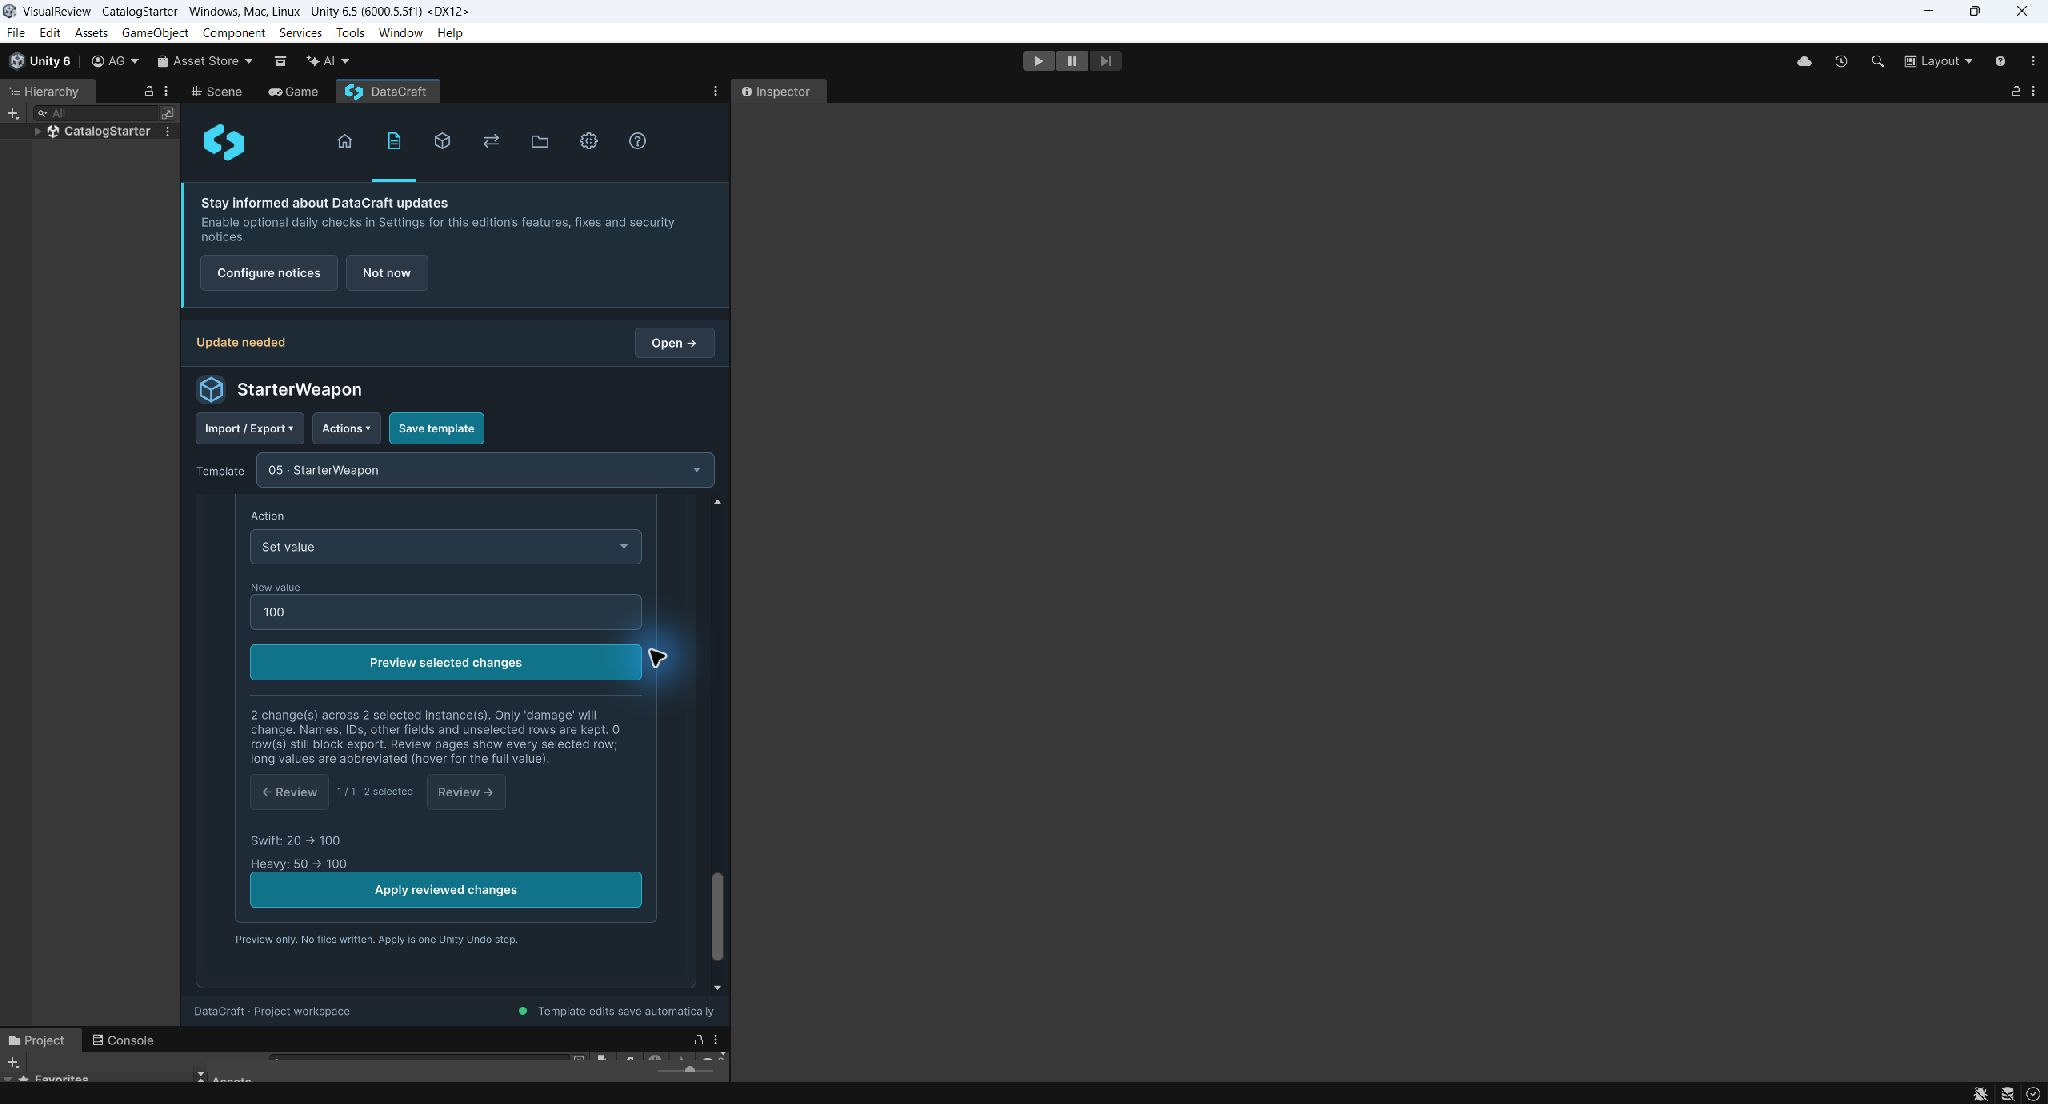
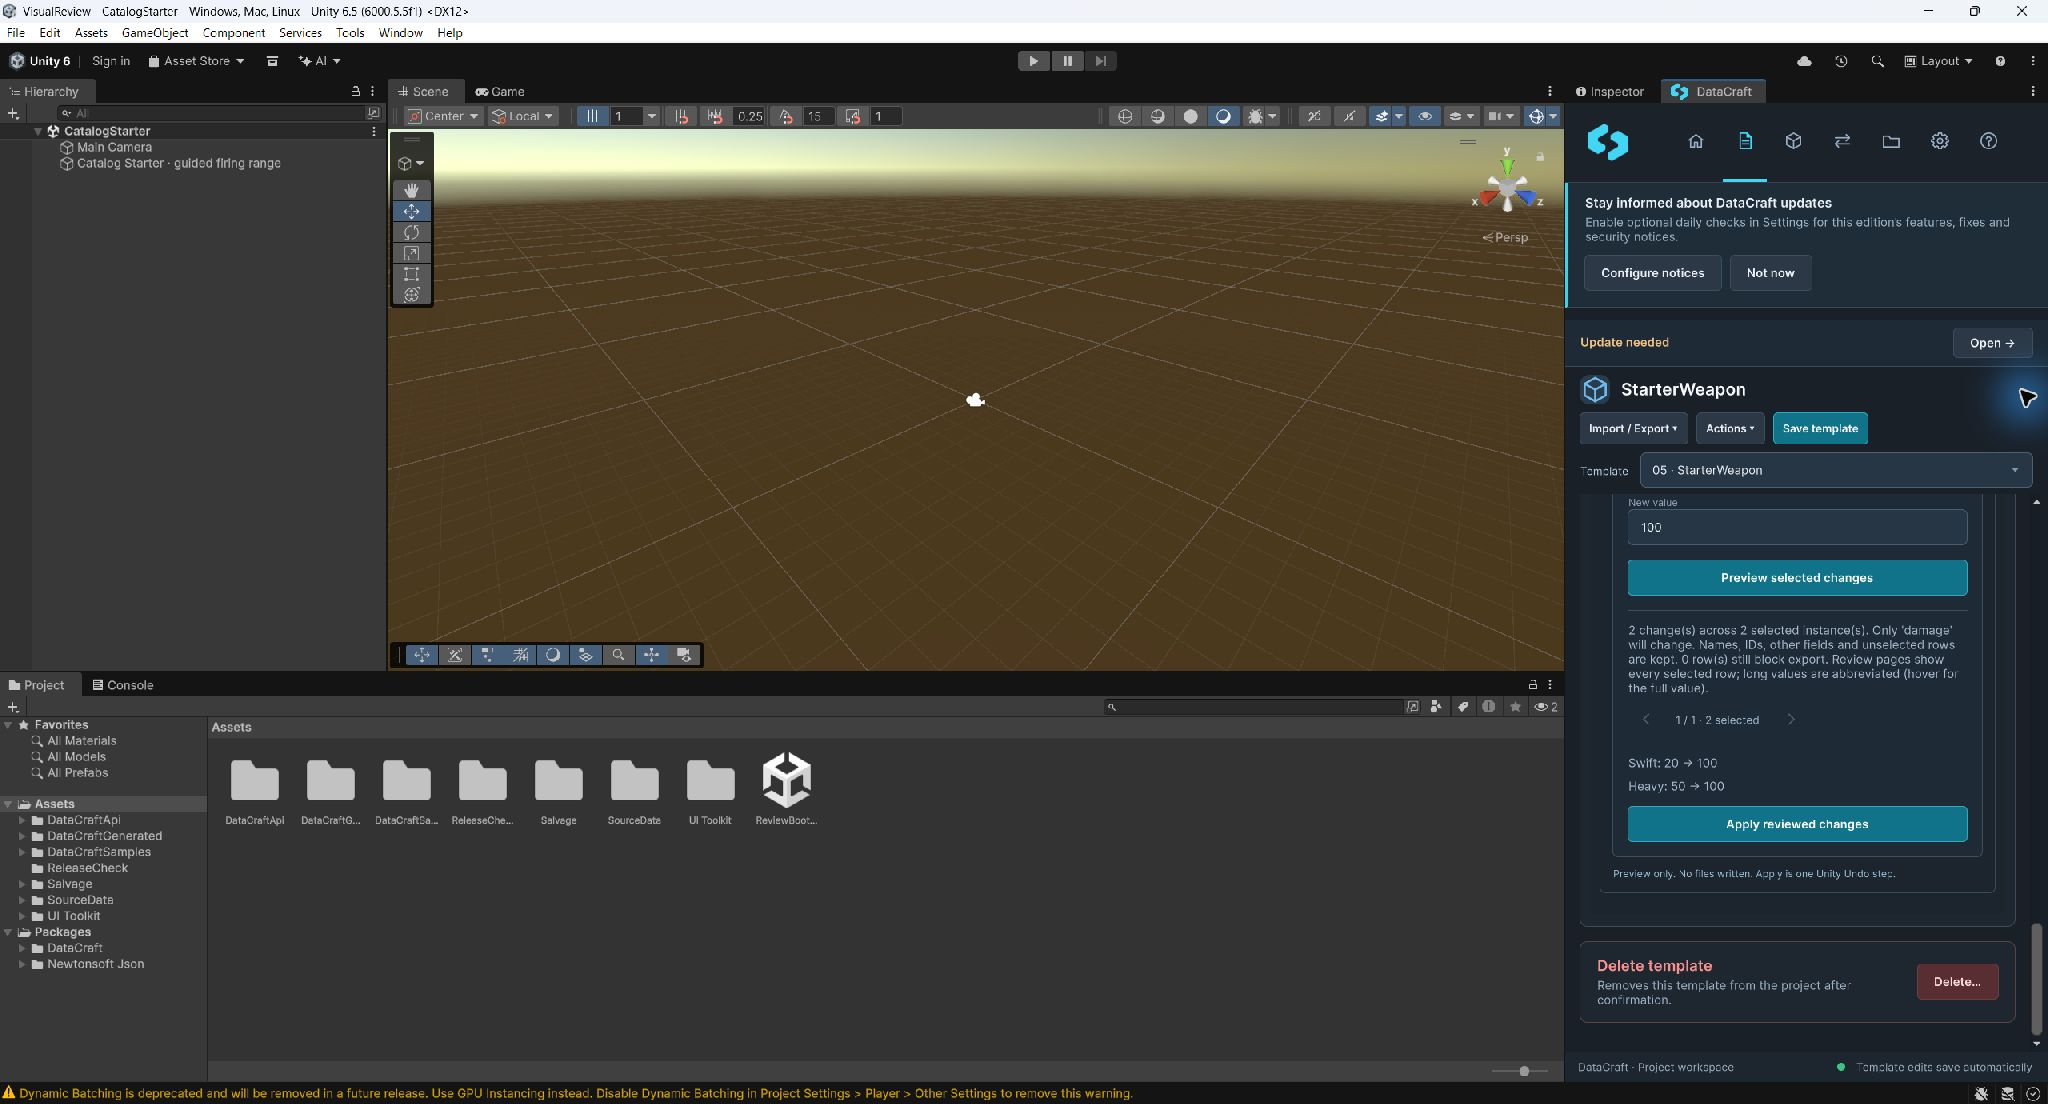
Refresh prepared 1.4 Table documentation, captures and devlogs

diff --git a/docs/guides/Authoring.md b/docs/guides/Authoring.md
@@ -46,9 +46,11 @@ Choose **Instances → Create**, enter a unique instance name, then expand its r
 
 Validation stays next to the affected values. You can retain incomplete drafts, but blocking errors prevent Project Data export. Bind a newly added field explicitly; a removed field's old binding remains stored until explicitly removed.
 
+In **View → Cards**, the up/down arrow buttons change authored instance order. The first row cannot move up and the last cannot move down. Undo restores a committed reorder in the current workspace session. [Cards in a wide workspace](Screenshots/cards-authoring-wide.jpg) · [Cards docked beside the Inspector](Screenshots/cards-authoring-docked.jpg).
+
 ## Compare values in Table
 
-Under **Instances**, choose **View → Table**. Cards remains available for full field descriptions, list-element editors and resolving changed field bindings. Table shows eight instances per page and one to three fields at a time, according to panel width; **Fields →** changes the visible columns without horizontal page scrolling. Narrow panels stack each row's fields under its identity. Each row shows its readiness and **Open in Cards**.
+Under **Instances**, choose **View → Table**. Cards remains available for full field descriptions, list-element editors and resolving changed field bindings. Table shows eight instances per page and one to three fields at a time, according to panel width; the **Next fields** chevron changes the visible columns without horizontal page scrolling. Narrow panels stack each row's fields under its identity. Each row shows its readiness and a pencil icon (**Open in Cards**). Navigation chevrons flank their page counter; field navigation hides when every field fits. Hover an icon for its action name.
 
 Names and text values commit with Enter or a focus change. **Set value** controls presence separately from a Boolean's **True** value; empty String, false and unset are distinct. Enums and references use their existing selectors. Table List values are complete JSON arrays; Cards offers the element editor. Numeric values use invariant notation (`1.5`). Invalid/incomplete drafts remain visible and still block export. Schema-changed bindings require resolution in Cards first.
 
@@ -56,7 +58,7 @@ Names and text values commit with Enter or a focus change. **Set value** control
 
 ## Review a selected-row bulk edit
 
-1. Select individual table rows, **Select page**, or **Select all results**. Selection can span pages; the count includes selected rows on other pages. Changing the search clears the selection. **Clear selection** starts again. A batch supports at most **1,024** explicitly selected instances of the current template.
+1. Select individual table rows, the single-check **Select page** icon, or the stacked-check **Select all results** icon. Selection can span pages; the count includes selected rows on other pages. Changing the search clears the selection. The crossed-box **Clear selection** icon starts again. The bulk form appears only while rows are selected. A batch supports at most **1,024** explicitly selected instances of the current template.
 2. Under **Edit selected instances**, choose one **Field** and **Set value** or **Unset value**. Enter/select the value and commit text with Enter or focus change.
 3. **Preview selected changes** writes nothing. Review the total changed/selected counts, before/after values and rows that still block export. Review pages contain every selected row, twelve per page. Long values are abbreviated; hover for the full before/after value or inspect the instance in Cards.
 4. **Apply reviewed changes** writes the reviewed draft batch as **one Unity Undo step**. It keeps IDs, instance names/order, other bindings and unselected rows. Setting a value on a newly added field explicitly binds that field. Changed binding types/targets must be resolved in Cards first.
@@ -78,7 +80,7 @@ Original draft bytes are retained under `ProjectSettings/DataCraftMigrationBacku
 
 ## Saving, Undo and recovery
 
-Ordinary template and committed instance edits use Unity's native **Edit → Undo/Redo** in the current workspace session. Instance history covers create, edit/set/unset/bind/remove values, rename, duplicate, reorder, delete, instance-only import/update, draft schema review and table/bulk changes. **Undo / Redo** in the Instances toolbar uses the same global Unity history, which may also contain template, Inspector and scene edits. A focused text field can undo its uncommitted text first.
+Ordinary template and committed instance edits use Unity's native **Edit → Undo/Redo** in the current workspace session. Instance history covers create, edit/set/unset/bind/remove values, rename, duplicate, reorder, delete, instance-only import/update, draft schema review and table/bulk changes. The curved-arrow **Undo / Redo** icons in the Instances toolbar uses the same global Unity history, which may also contain template, Inspector and scene edits. A focused text field can undo its uncommitted text first.
 
 Instance history is scoped to the open workspace and is cleared on close or script reload. Template/library imports rebase the instance and template history so Undo cannot remove only half of a two-store import. Schema changes invalidate incompatible instance history; an unsafe Undo/Redo reports why and preserves current drafts. A saved draft file changed externally is not overwritten: reopen the workspace after reviewing the external changes. A read-only/failed write rolls back the in-memory mutation. Generated output, model/ID source files, endpoint assets, player saves and Files actions remain outside this instance history. Undo is not a durable backup or a crash journal; template recovery below is a separate feature.
 

diff --git a/docs/README.md b/docs/README.md
@@ -4,7 +4,7 @@
 
 **Design game data, save player progress and use JSON APIs in Unity.**
 
-**Version 1.3.0 — typed catalog models and Inspector references.** Generate C# classes from your templates and choose authored instances by name in the Inspector. [Read the changelog](CHANGELOG.md). Store availability follows the announcements for your purchase edition.
+**Version 1.4.0 — table authoring, native Undo and a guided first catalog.** Review bulk edits before applying them, undo committed draft changes and see typed catalog data drive a playable example. [Read the changelog](CHANGELOG.md). Store availability follows the announcements for your purchase edition.
 
 DataCraft brings these workflows into one Editor workspace. Define typed templates and instances, publish a read-only catalog for gameplay, save mutable progress locally, or turn an HTTP JSON response into reviewed C# code.
 
@@ -14,7 +14,7 @@ DataCraft brings these workflows into one Editor workspace. Define typed templat
 
 *Overview connects the main workflows. Screenshots show example projects, not data automatically added to yours. Click an image to view it at full size.*
 
-For example, define a Weapon template once, generate `WeaponData`, then select Iron Sword on a component and read its damage in gameplay. You maintain the template fields; DataCraft keeps the reviewed C# model in step with that schema. Existing manual DTOs remain supported. Version 1.4.0 is in final preparation; check your store for actual download availability. The new table edits existing instance drafts, reviewed batches change one field on selected rows, and committed instance edits use Unity Undo/Redo. The guided Catalog Starter shows the complete edit → publish → gameplay path.
+For example, define a Weapon template once, generate `WeaponData`, then select Iron Sword on a component and read its damage in gameplay. You maintain the template fields; DataCraft keeps the reviewed C# model in step with that schema. Existing manual DTOs remain supported. Version 1.4.0 is prepared for release; check your store for actual download availability. The new table edits existing instance drafts, reviewed batches change one field on selected rows, and committed instance edits use Unity Undo/Redo. The guided Catalog Starter shows the complete edit → publish → gameplay path.
 
 ## Choose your workflow
 

diff --git a/docs/CHANGELOG.md b/docs/CHANGELOG.md
@@ -2,10 +2,13 @@
 
 ## Unreleased
 
-## 1.4.0 — Table authoring, native Undo and a guided first catalog · 2026-10-29
+No changes recorded.
+
+## 1.4.0 — Table authoring, native Undo and a guided first catalog · 2026-10-30
 
 Prepared for release. Download availability follows each store independently. Includes the catalog models, Inspector references and bounded update history from the internal 1.3 milestone.
 
+- Refine Table with consistent vector icons, descriptive tooltips, quiet Undo/Redo and selection actions, compact row editing, grouped navigation chevrons and selection-only bulk controls. Keep Cards action buttons square, dropdown labels aligned and the narrow template toolbar wrapped without clipped actions.
 - Add a responsive instance Table alongside Cards: eight rows per page, width-dependent field columns, inline typed values, readiness, search and view-only name sorting.
 - Add explicit selected-row bulk editing of one field with a frozen paginated before/after review, stale-plan checks and atomic apply. Preserve IDs/order/other fields; allow incomplete drafts with clear export blockers.
 - Add native Unity Undo/Redo for committed instance edits, instance-only imports/updates, draft schema review and one-step bulk changes. Scope history to the open workspace and clear incompatible snapshots safely after schema changes or coordinated imports.

diff --git a/README.md b/README.md
@@ -34,3 +34,5 @@ Questions, bugs or feedback: **[amedina.amg.dev@gmail.com](mailto:amedina.amg.de
 Publisher maintenance is documented separately in [PUBLISHING.md](PUBLISHING.md). Documentation-only commits do not change signed notices or announce a new package.
 
 Prepared 1.4 devlog text: [English](docs/devlogs/DEVLOG-ITCH-1.4.0.md) · [Español](docs/devlogs/DEVLOG-ITCH-1.4.0-ES.md). These notes do not change signed store availability.
+
+Presentation review, 2026-10-30: prepared 1.4.0 documentation now shows the quieter Table icons, grouped navigation, contextual bulk controls and refreshed real Unity captures. This revision does not announce a store download.

diff --git a/docs/devlogs/DEVLOG-ITCH-1.4.0.md b/docs/devlogs/DEVLOG-ITCH-1.4.0.md
@@ -4,6 +4,7 @@ DataCraft 1.4.0 makes larger catalogs easier to edit and gives new users a small
 
 ## Edit instances together
 
+- A cleaner Table interface with quiet vector icons, hover descriptions, compact row actions and evenly grouped navigation. Bulk controls appear when rows are selected.
 - Switch between Cards and a responsive Table with typed values, search, view-only name sorting and eight rows per page.
 - Select rows across pages and edit one field for up to 1,024 instances at once.
 - Preview the complete batch before saving. Paginated reviews show before/after values and remaining export blockers; stale reviews cannot apply.
